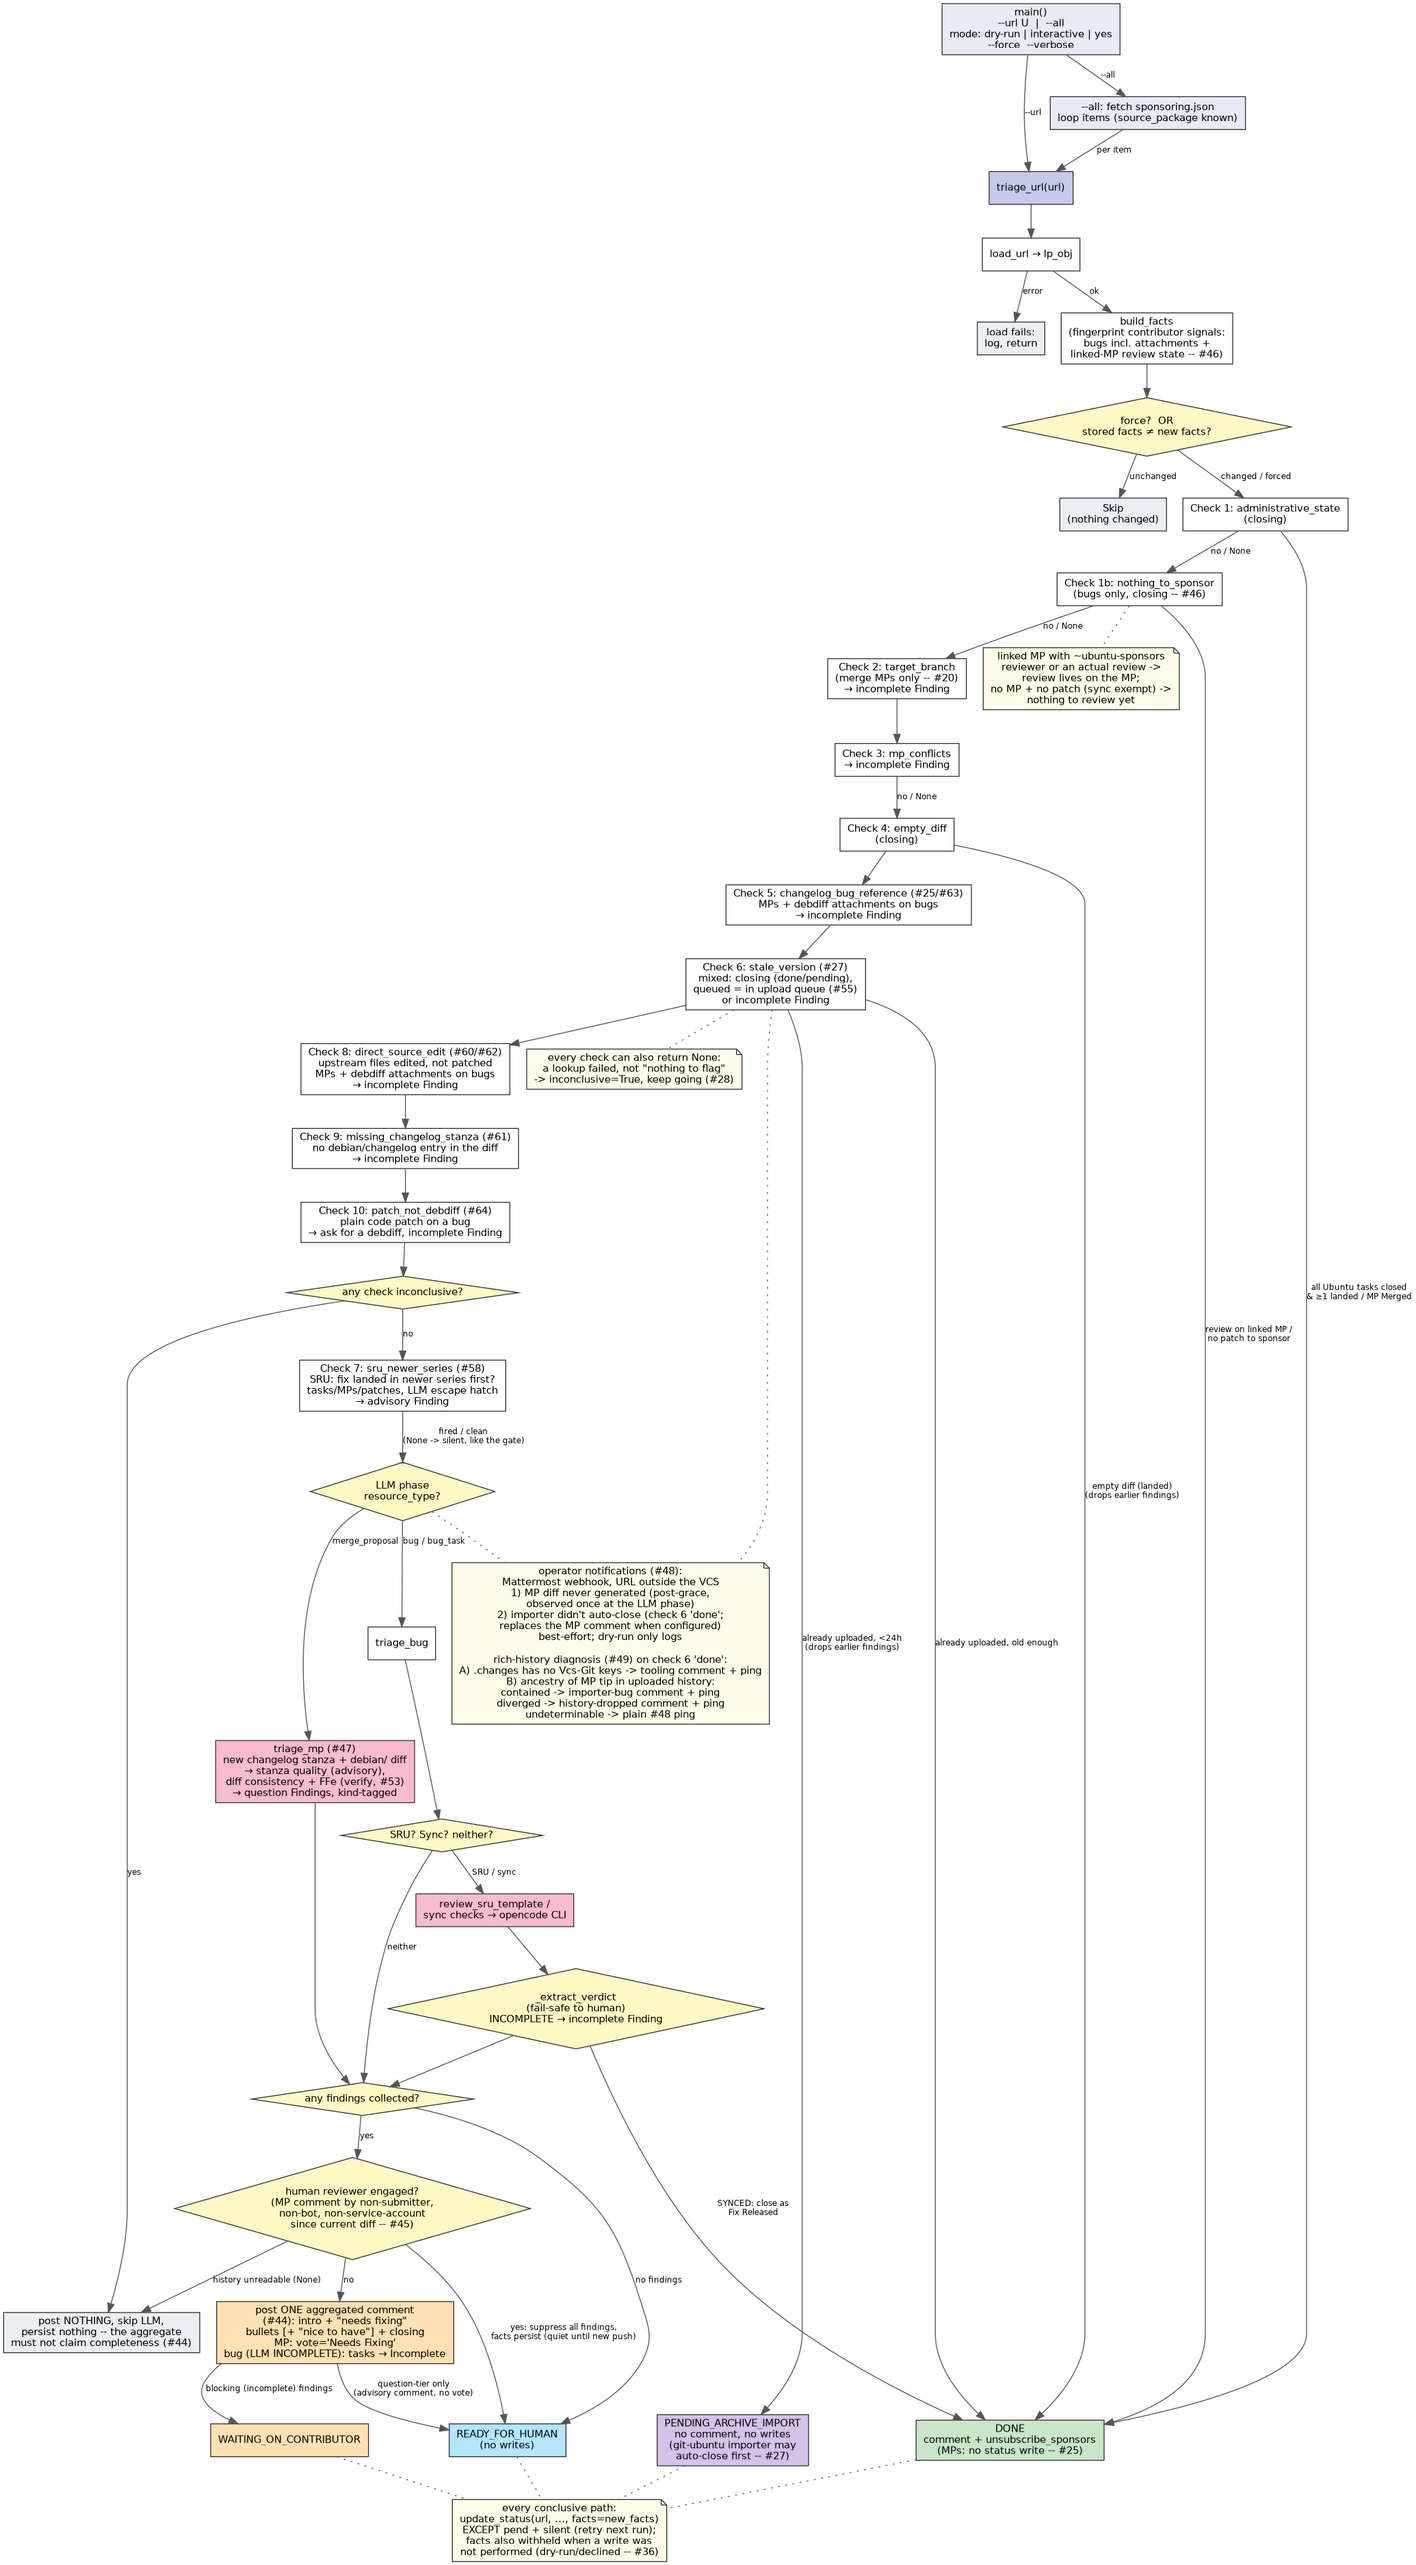
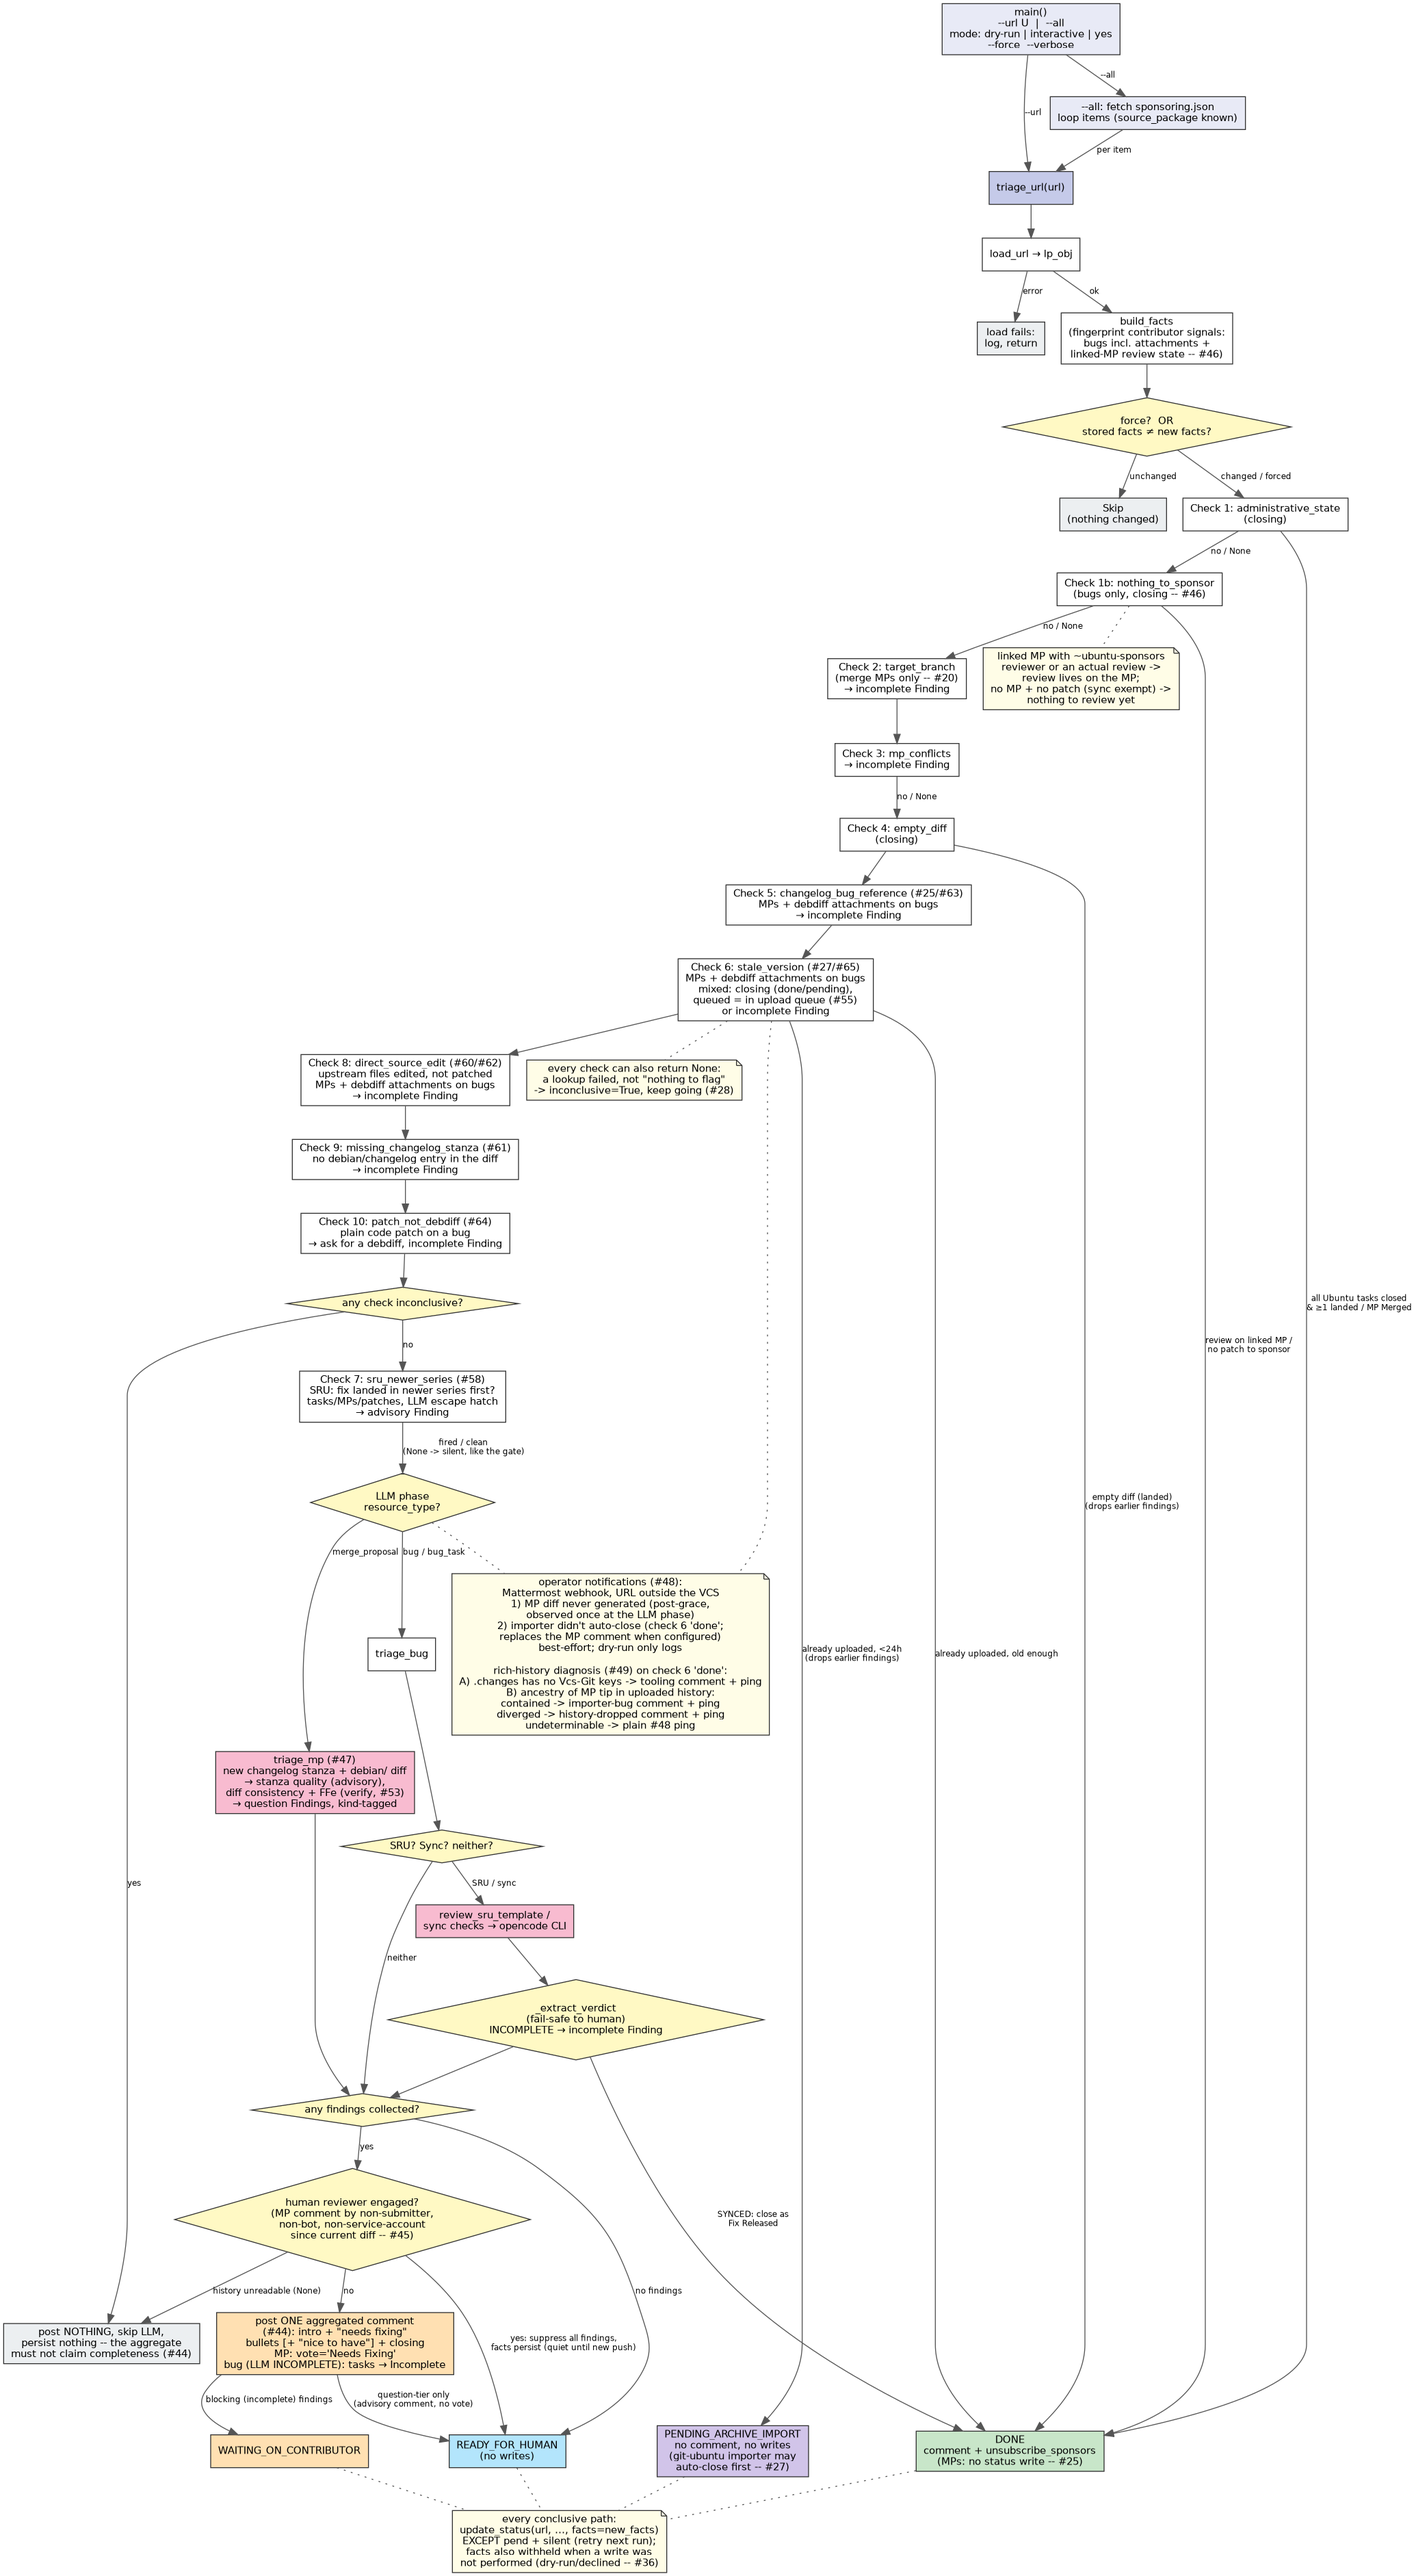
Docs: #65 in journal/STATUS/GLOSSARY/flow

diff --git a/design_journal.md b/design_journal.md
@@ -640,3 +640,12 @@ files; regenerate with `dot -Tpng flow.dot -o flow.png`, likewise `-Tsvg`):
 * **Check 10 `check_patch_not_debdiff`** (incomplete tier, deterministic, pre-gate, bug-side only): `attachments.review_target` (free after Check 8) + `classify_diff`; fires when the newest usable diff attachment touches NO debian/ file. Debian-touching diffs are debdiff-shaped and judged by Check 8/#63 on their merits. Silent skips: merge bugs, sync requests, needs-packaging bugs (nothing to debdiff against, #50 territory), bugs with an active linked MP (the review lives there; Rejected/Superseded MPs don't shield). Wording (seb128-approved): "The attachment is a plain code patch. Thank you for working on a fix! To be ready for sponsoring it needs to be turned into a source package update (debdiff): include the patch under `debian/patches` and add a new `debian/changelog` entry with an incremented version number describing the change -- see https://ubuntu.com/project/docs/contributors/updating/work-with-debian-patches/".
 * **Live sweep of the full sponsoring queue (42 bugs, read-only):** zero fires and zero inconclusives; 17 bugs had usable diff attachments, ALL correctly classified as debdiffs (varied real-world naming/formats) -- so the clean path is live-validated broadly, the firing path by tests only until a plain patch shows up in the queue. Side effect: one end-to-end fixture needed debdiff-shaped content (FakeAttachment's default content is a plain patch, which Check 10 now correctly bounces -- the new behavior, not a regression).
 * 369 tests (11 new).
+
+## 65. Stale-Version Check for Debdiffs Attached to Bugs
+**Date:** 2026-07-11
+* **Fourth consumer of the #62 foundation (plan approved):** Check 6 (proposed version vs archive/queue, #27/#41/#43/#55/#56) was MP-only; the identical comparison applies to an attached debdiff -- only the input sourcing differs (seb128: "it's just how we get the candidate version which is tiny different").
+* **Refactor:** the input-independent core -- archive compare, upload-queue race (#55/#56), historical-publication rescue (#43) -- extracted to `_stale_version_verdict(url, lp_client, package, proposed_version, proposed_entry, target_series, classify)`; the MP path passes `_classify_against_publication`, behavior-identical (existing Check 6 suite green throughout).
+* **Bug path (`_stale_version_bug`):** package/version/entry from the newest usable attachment's stanza header; **target series from the stanza's own suite field** (that's where an upload actually goes; pocket suffixes `-proposed/-updates/-security/-backports` stripped; unknown suite e.g. UNRELEASED -> skip, validated against `supported_series_ordered`).
+* **`_classify_against_publication_bug`:** matching content -> comment ("nothing left to sponsor" + publication URL) + unsubscribe ~ubuntu-sponsors, return "done" **with NO grace defer** -- seb128: the MP defer exists because git-ubuntu's importer races us to auto-close; the bug equivalent (Launchpad closing the task over the changelog's `LP: #nnn`) only runs when the upload reaches the release pocket, "which could take weeks... we can unsubscribe directly if uploaded". No rich-history diagnosis either (#49 is a git-import concern; debdiffs carry no git history). Different content -> the same-version-collision bounce.
+* **Live sweep (42 queue bugs, read-only): five hits, all verified genuinely correct** -- #2148798 gnocchi + #2146605 ethtool + #2152688 backport-iwlwifi-dkms already published with matching content (release/-proposed/-updates pockets: the every-pocket lesson from #41 paying off), #2145103 libfprint a real same-version collision (a different ~24.04.7 landed in noble-updates), #2150202 gnutls28 genuinely stale (3.8.12-2ubuntu2 vs 3.8.13-1ubuntu1). Three queue-cleanup closes + two bounces waiting for the next write run.
+* 377 tests (8 new).

diff --git a/GLOSSARY.md b/GLOSSARY.md
@@ -145,6 +145,13 @@ terms specific to this bot's own design. Entries point at `design_journal.md`
   https://ubuntu.com/project/docs/contributors/updating/work-with-debian-patches/).
   Exempt: merge bugs, sync requests, needs-packaging bugs, bugs with an
   active linked MP.
+- **Stale-version check (bugs)** — Check 6's bug path (#65): the
+  attached debdiff's stanza gives package, proposed version, and target
+  series (its own suite field, pocket suffixes stripped); the shared
+  verdict core compares against the archive and upload queue. Already
+  landed with matching content → comment + unsubscribe immediately (no
+  grace defer: the `LP: #nnn` auto-close only happens at the release
+  pocket); collision/stale → the usual rebase bounce.
 - **Missing changelog-entry check** — Check 9,
   `check_missing_changelog_stanza` (#61): a fix MP whose diff doesn't
   touch `debian/changelog` at all gets an incomplete-tier bounce asking
